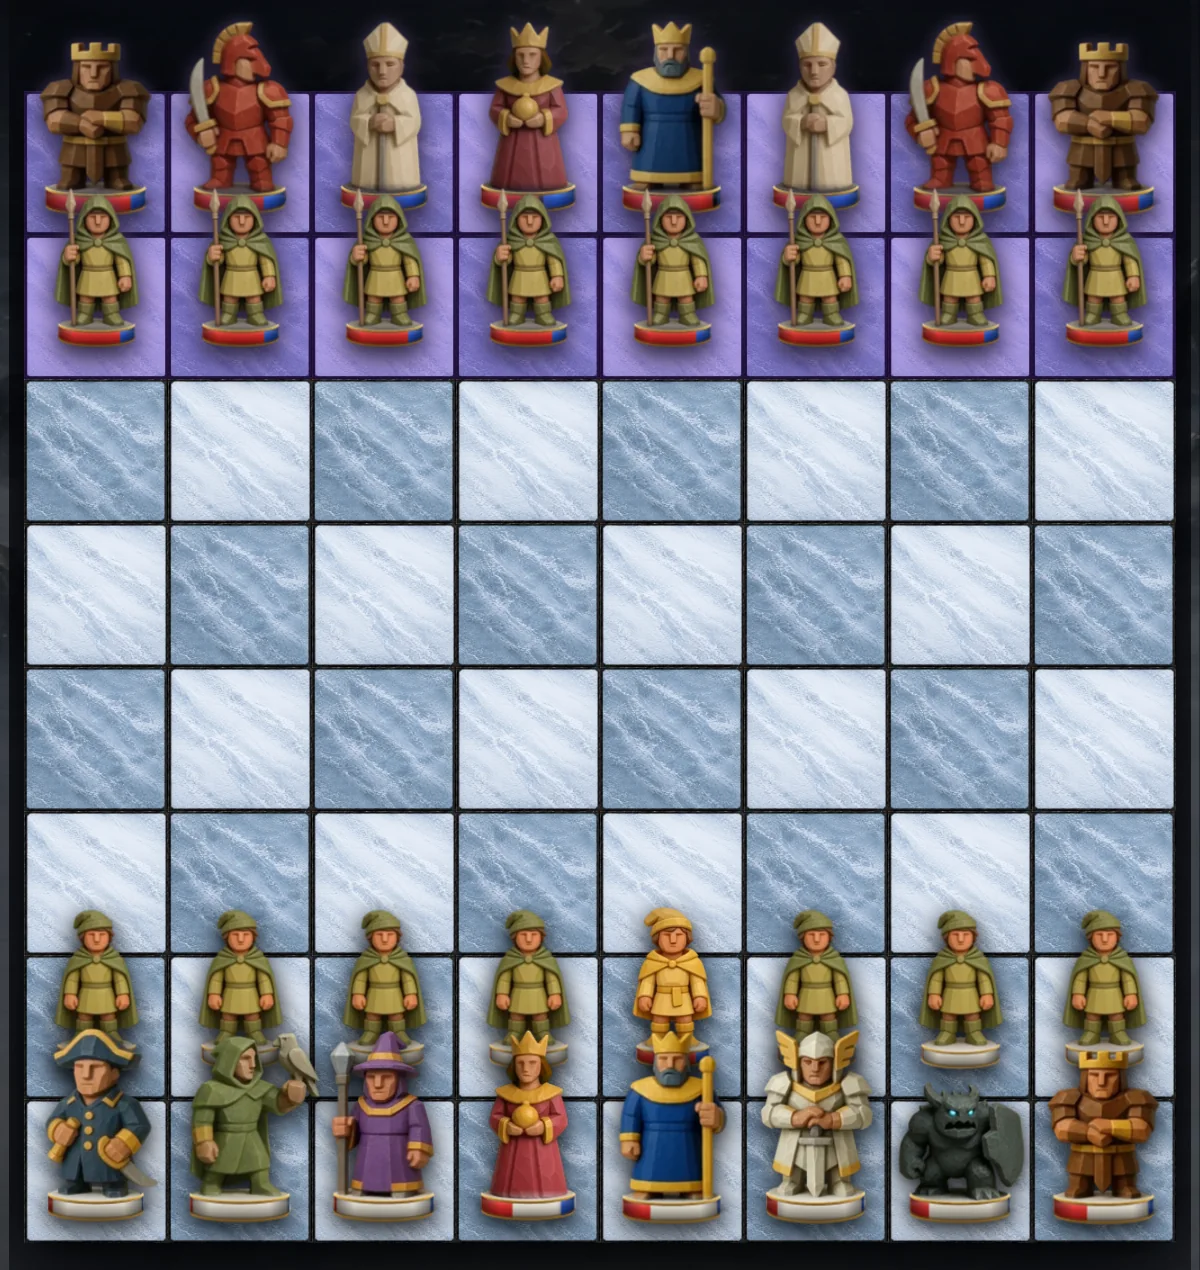
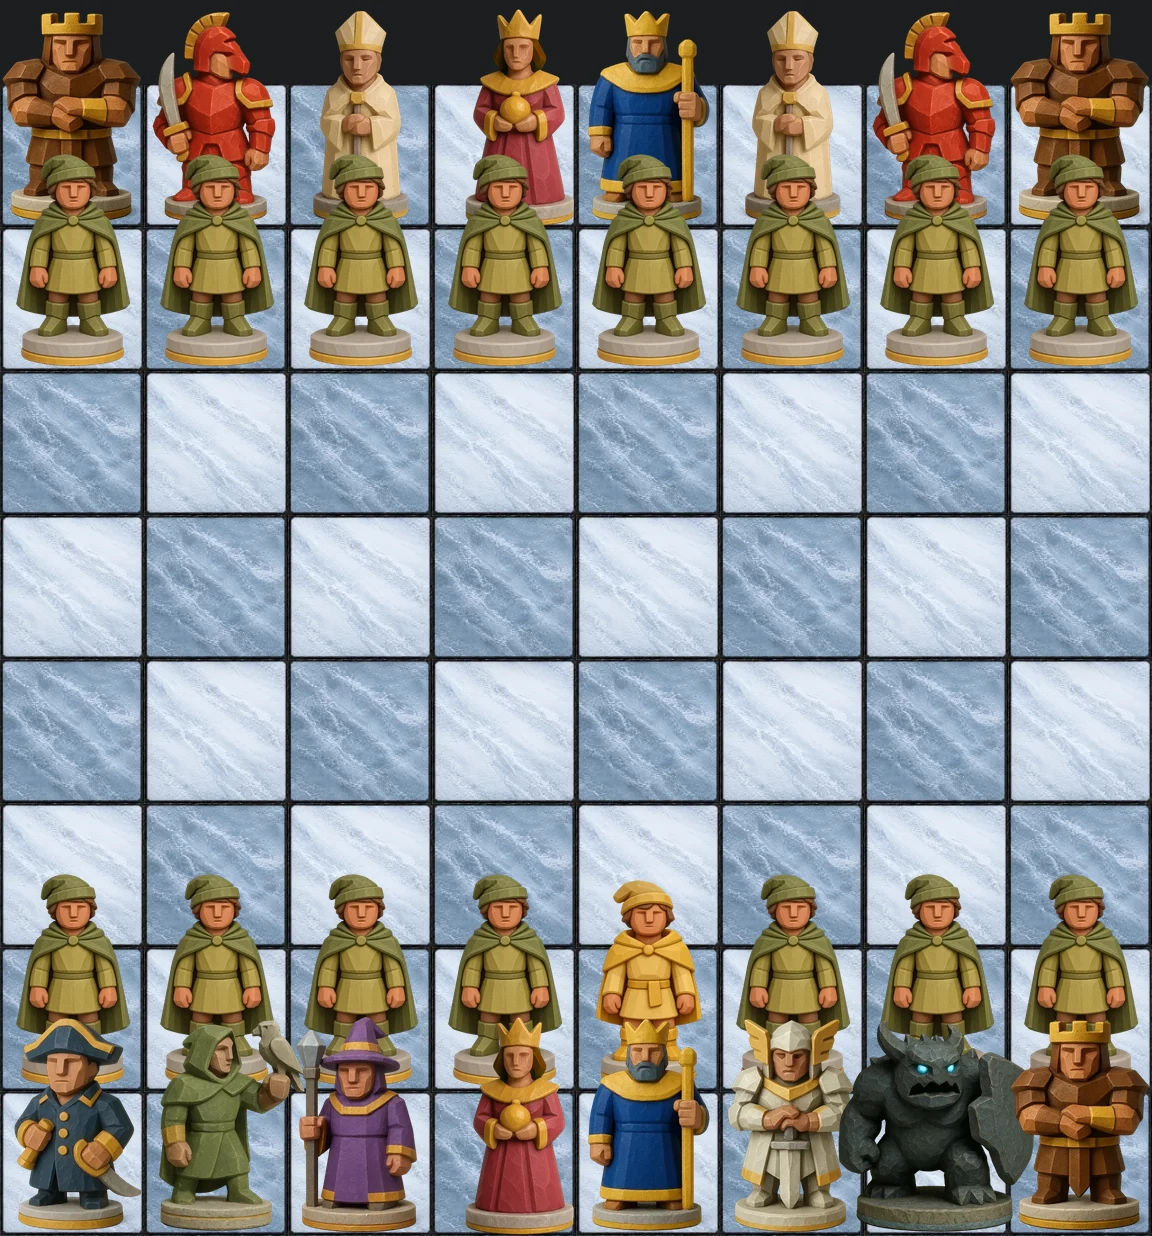
v1.87.0: die Landingpage nach dem Blick des Besitzers - Laenderband fort, Bretter ohne Lila und Glut, Zugbilder in einer Sprache, Crowd hinter der ersten Reihe
Besitzer (27.9.): "zwoelf Laender, zwoelf Stimmungen, das ist einfach
weglassen ... bei den Figuren die lilanen Hintergruende weg ... bei diesem
Schachbrett die Kontur weg, dass man nur das Schachbrett sieht ... der Sockel
immer grau oder schwarz, aber gleich ... beim Weitsprung zeichne bitte auch den
normalen Zug ein, den der Springer kann ... beim Turm hast du sie richtig
eingezeichnet ... im Hintergrund noch mehrere Figuren, Paladin, Waechter,
Erzbischof, Amazone, Kapitaen und Kanzler, wie so eine Crowd dahinter."

LAENDERBAND: Abschnitt und CSS gestrichen, die sechs Bilder nach
archiv/ausgemustert/v1.87.0/.

BRETTER - DIE URSACHE: die drei Brettbilder waren echte Aufnahmen aus dem
Spiel, und das Spiel zeigt die Gegnerreihen violett und traegt seit v1.0.83
die Sockelglut schwarz/weiss ohne Wahl (gegnerstil.js). Aus dem Spiel kommt
also kein Bild ohne Lila und ohne ungleiche Sockel. tools/landing_bilder.py
setzt die Bretter deshalb neu zusammen: leere Felder aus der alten Aufnahme
(gemessen 8 x 144 px, x ab 24, Kronland y ab 124, Wolkenjoch y ab 92),
Figuren aus painted/ mit ihrem eigenen grauen Sockel (Kasten 228 px aus dem
gemessenen Gegnerkoenig 51..264 px), beschnitten auf die Feldkante. Rahmen,
Rundung und Leuchtkontur sind weg (.brettbild). Alte Aufnahmen im Archiv.

ZUGBILDER - DIE URSACHE: nicht das Bild war unvollstaendig, die Legende war
verkehrt. Die Bilder trugen die Farben des Spiels (Blau = Gleiten, Gelb =
[…]

diff --git a/public/landing.html b/public/landing.html
@@ -141,6 +141,16 @@
       filter:brightness(var(--b,1)) drop-shadow(0 12px 26px rgba(0,0,0,.8)); }
     @media (max-width:900px){ .hofreihe img.rand { display:none; } }
     @media (max-width:560px){ .hofreihe img.rand2 { display:none; } .hofreihe { --ue:.134; } }
+    /* v1.87.0 (Besitzer: "im Hintergrund noch mehrere Figuren ... den Paladin,
+       den Waechter, den Erzbischof, die Amazone, Kapitaen und Kanzler ... wie
+       so eine Crowd dahinter stehen, so dass man die Gesichter sieht"): eine
+       ZWEITE REIHE hinter der ersten. Sie steht hoeher (bottom), kleiner (--h)
+       und dunkler (--b), also weiter hinten; ihre Koepfe schauen ueber die
+       Schultern der vorderen Reihe. Gemessen: der Koenig vorn reicht bis
+       0,80 fh ueber die Fensterkante, die hinteren Gesichter beginnen bei
+       0,86 fh - kein Gesicht steckt hinter einer Krone. */
+    .hofreihe.hinten { bottom:calc(var(--fh) * .30); z-index:1; --ue:.05; }
+    @media (max-width:560px){ .hofreihe.hinten { --ue:.11; } }
     /* v1.82.0: der Abdunkler bleibt, faellt aber flacher aus - er soll den
        Uebergang zum naechsten Abschnitt tragen, nicht die Beine schlucken. */
     .buehne::after { content:""; position:absolute; left:0; right:0; bottom:0; height:56px;
@@ -296,13 +306,11 @@
     .chip { font-size:11px; font-weight:700; letter-spacing:.03em; padding:4px 10px; border-radius:999px;
       border:1px solid rgba(201,164,92,.4); color:var(--goldhell); background:rgba(201,164,92,.08); }
     .chip.violett { border-color:rgba(167,139,250,.45); color:#cdbcf7; background:rgba(124,58,237,.12); }
-    .laender { display:grid; gap:10px; grid-template-columns:repeat(2,1fr); margin-top:6px; }
-    @media (min-width:700px){ .laender { grid-template-columns:repeat(3,1fr); } }
-    .laender figure { margin:0; }
-    .laender img { width:100%; height:auto; display:block; border-radius:12px;
-      border:1px solid rgba(167,139,250,.3); box-shadow:0 8px 22px rgba(0,0,0,.5); }
-    .laender figcaption { margin-top:6px; text-align:center; font-size:12.5px; color:rgba(226,218,246,.8); }
-    .laender figcaption i { font-style:normal; color:var(--gold); margin-left:5px; letter-spacing:.08em; }
+    /* v1.87.0 (Besitzer: "die lilanen Hintergruende weg ... die Kontur weg,
+       dass man nur das Schachbrett sieht"): das Gefechtsbrett steht ohne
+       Rahmen, ohne Leuchtkontur und ohne Rundung - nur das Brett. */
+    .brettbild { max-width:560px; margin:0 auto; }
+    .brettbild img { width:100%; height:auto; display:block; }
     .weltrahmen { border:1px solid rgba(167,139,250,.55); border-radius:16px; overflow:hidden;
       box-shadow:0 14px 44px rgba(0,0,0,.55), 0 0 16px rgba(124,58,237,.25); }
     footer { border-top:1px solid var(--line); background:var(--night); padding:34px 18px 44px;
@@ -348,6 +356,15 @@
        Reihenfolge ist die Tiefe: die Zahl in --z sagt, wer vor wem steht, --b
        dunkelt die hinteren ab. Am Rand verschwinden Figuren auf schmalen
        Geraeten (Klassen rand/rand2), damit die Reihe nie beschnitten wirkt. -->
+  <!-- v1.87.0: die Crowd dahinter - sechs Menschen des Hofstaats, keine Bestie -->
+  <div class="hofreihe hinten" aria-hidden="true">
+    <img class="rand2" src="/landing/held-chancellor.webp" alt="" style="--h:.66;--z:1;--b:.40;--y:.03" loading="eager" />
+    <img               src="/landing/held-amazon.webp"     alt="" style="--h:.70;--z:2;--b:.46;--y:.07" loading="eager" />
+    <img               src="/landing/held-paladin.webp"    alt="" style="--h:.74;--z:3;--b:.52;--y:0"   loading="eager" />
+    <img               src="/landing/held-archbishop.webp" alt="" style="--h:.72;--z:3;--b:.52;--y:.05" loading="eager" />
+    <img               src="/landing/held-guardian.webp"   alt="" style="--h:.70;--z:2;--b:.46;--y:.02" loading="eager" />
+    <img class="rand2" src="/landing/held-captain.webp"    alt="" style="--h:.66;--z:1;--b:.40;--y:.06" loading="eager" />
+  </div>
   <div class="hofreihe" aria-hidden="true">
     <img class="rand"  src="/landing/held-pawn.webp"   alt="" style="--h:.54;--z:1;--b:.38;--y:.11"  loading="eager" />
     <img class="rand2" src="/landing/held-rook.webp"   alt="" style="--h:.70;--z:2;--b:.54;--y:.082" loading="eager" />
@@ -489,14 +506,22 @@
       <!-- v1.85.0 (Besitzer G1: "Zugbilder der Faehigkeiten: Weitsprung
            verstaendlicher (Legende)"): ohne Legende waren die Farben nicht zu
            deuten - man sah bunte Kaestchen und wusste nicht, was sie heissen.
-           Die Farben sind dieselben wie im Spiel (.z.f / .z.s / .z.l). -->
+           v1.87.0 (Besitzer: "beim Weitsprung zeichne bitte auch den normalen
+           Zug ein ... beim Turm hast du sie richtig eingezeichnet"): GEMESSEN
+           war die Legende verkehrt herum zu den Bildern. Die Bilder trugen die
+           Farben des Spiels (Blau = Gleiten, Gelb = Sprung, Talentfarbe = neu);
+           das L des Springers stand damit in Gelb, das die Legende "neu"
+           nannte, und der Weitsprung in Blau, das sie "gewohnt" nannte. Jetzt
+           sprechen alle vier Bilder die Sprache des Turmbildes: Blau der
+           gewohnte Zug, Gruen was die Faehigkeit hinzugibt
+           (tools/landing_bilder.py). -->
       <ul class="zuglegende sans">
         <li><span class="z f"></span>die Figur selbst</li>
         <li><span class="z s"></span>ihr gewohnter Zug</li>
-        <li><span class="z l"></span>neu durch die Fähigkeit</li>
+        <li><span class="z g"></span>neu durch die Fähigkeit</li>
       </ul>
-      <p class="unterzeile sans" style="text-align:left">Der <b>Weitsprung</b> etwa gibt dem Springer vier
-        weitere Ziele über das L hinaus — im Bild die gelben Felder.</p>
+      <p class="unterzeile sans" style="text-align:left">Der <b>Weitsprung</b> etwa gibt dem Springer acht
+        weitere Ziele über das L hinaus — im Bild die grünen Felder, das L bleibt blau.</p>
     </div>
   </div>
 </section>
@@ -508,7 +533,10 @@
     <p class="h2u sans">Kapitän statt Turm, Späher statt Springer, eine Bestie aus dem Riss auf dem freien Platz —
       jede Partie beginnt mit deiner Aufstellung. Besiegte Monster lassen sich mit Gold und einem Opfer aus
       deinem Hofstaat anwerben, und wer ein Kapitel gewinnt, holt dessen Meister an den Platz der Dame.</p>
-    <div class="bildrahmen leuchtkontur"><img src="/landing/gefecht-gemischt.webp"
+    <!-- v1.87.0 (Besitzer): kein Rahmen, keine Leuchtkontur. Das Bild selbst
+         ist neu zusammengesetzt (tools/landing_bilder.py): ohne die violetten
+         Gegnerfelder und ohne die Sockelglut - alle Sockel gleich grau. -->
+    <div class="brettbild"><img src="/landing/gefecht-gemischt.webp" width="1152" height="1236"
       alt="Ein Gefecht in Gambit Rise: die eigene Reihe mit Kapitän, Späher, Magier, Dame, König, Paladin, dem Wächter und einem Turm" loading="lazy" /></div>
   </div>
 </section>
@@ -554,25 +582,18 @@
       alt="Die Karte eines Kapitels: ein Pfad durch den Eichwald mit Stationen wie Erstes Rot, Halle der zwei Schwüre und Bernsteinaltar" loading="lazy" /></div>
     <!-- v1.62.0 (Besitzer: "Kapitel I zeigen ... und vielleicht noch ein anderes
          von den Bergen, ein helles - dass man Varianz reinbringt") -->
-    <!-- v1.85.0 (Besitzer G7: "weiter unten weitere Hintergruende aus dem
-         Spiel verwenden"): die echten Kapitel-Hintergruende aus public/brett,
-         quer zugeschnitten. Sechs von zwoelf - genug fuer den Eindruck, ohne
-         die Reise vorwegzunehmen. -->
-    <h3 class="sans" style="text-align:center;margin:34px 0 6px;font-size:19px">Zwölf Länder, zwölf Stimmungen</h3>
-    <div class="laender">
-      <figure><img src="/landing/land-kronland.webp" alt="Das Kronland" loading="lazy" /><figcaption class="sans">Kronland <i>I</i></figcaption></figure>
-      <figure><img src="/landing/land-eichwald.webp" alt="Der Eichwald" loading="lazy" /><figcaption class="sans">Eichwald <i>III</i></figcaption></figure>
-      <figure><img src="/landing/land-grauwacht.webp" alt="Die Grauwacht" loading="lazy" /><figcaption class="sans">Grauwacht <i>V</i></figcaption></figure>
-      <figure><img src="/landing/land-wolkenjoch.webp" alt="Das Wolkenjoch" loading="lazy" /><figcaption class="sans">Wolkenjoch <i>VI</i></figcaption></figure>
-      <figure><img src="/landing/land-aschgrund.webp" alt="Der Aschgrund" loading="lazy" /><figcaption class="sans">Aschgrund <i>VIII</i></figcaption></figure>
-      <figure><img src="/landing/land-kueste.webp" alt="Die Küste" loading="lazy" /><figcaption class="sans">Die Küste <i>XI</i></figcaption></figure>
-    </div>
-
+    <!-- v1.87.0 (Besitzer: "zwoelf Laender, zwoelf Stimmungen, das ist einfach
+         weglassen"): das Laenderband aus v1.85.0 (sechs quer geschnittene
+         Kapitel-Hintergruende) ist fort; die Bilder liegen in
+         archiv/ausgemustert/v1.87.0/. -->
     <h3 class="sans" style="text-align:center;margin:34px 0 6px;font-size:19px">Jedes Land sein eigenes Brett</h3>
+    <!-- v1.87.0 (Besitzer): beide Bretter wie das Gefechtsbrett oben - ohne
+         Rahmen und Leuchtkontur, ohne violette Gegnerreihen, alle Sockel
+         gleich grau (tools/landing_bilder.py). -->
     <div class="paar">
-      <figure><div class="bildrahmen"><img src="/landing/gefecht-gemischt.webp" alt="Das Brett im Kronland, Kapitel I" loading="lazy" /></div>
+      <figure><div class="brettbild"><img src="/landing/gefecht-gemischt.webp" width="1152" height="1236" alt="Das Brett im Kronland, Kapitel I" loading="lazy" /></div>
         <figcaption class="sans" style="text-align:center"><b>Kronland</b> — Kapitel I</figcaption></figure>
-      <figure><div class="bildrahmen leuchtkontur"><img src="/landing/brett-wolkenjoch.webp" alt="Das eisblaue Brett im Wolkenjoch, Kapitel VI" loading="lazy" /></div>
+      <figure><div class="brettbild"><img src="/landing/brett-wolkenjoch.webp" width="1152" height="1236" alt="Das eisblaue Brett im Wolkenjoch, Kapitel VI" loading="lazy" /></div>
         <figcaption class="sans" style="text-align:center"><b>Wolkenjoch</b> — Kapitel VI</figcaption></figure>
     </div>
   </div>

diff --git a/tools/landing_bilder.py b/tools/landing_bilder.py
@@ -1,0 +1,164 @@
+#!/usr/bin/env python3
+"""Die Bilder der Landingpage, die v1.87.0 neu zeichnet (Besitzer, 27.9.2026).
+
+Drei Aufgaben, alle aus Material, das schon im Repo liegt - kein Bild-API:
+
+  zugbilder   Die vier Zugbilder im Abschnitt "Auch der Springer lernt dazu".
+              Besitzer: "beim Weitsprung zeichne bitte auch den normalen Zug
+              ein, den der Springer kann, weil so erkennt man gar nicht, was
+              der Unterschied ist ... beim Turm hast du sie ja eigentlich
+              richtig eingezeichnet."
+              GEMESSEN, was schief war: die Bilder trugen die Farben des
+              SPIELS (Blau = Gleiten, Gelb = Sprung, Talentfarbe = neu), die
+              Legende darunter sagte aber "Blau = gewohnter Zug, Gelb = neu".
+              Beim Turm stimmte das zufaellig (er gleitet), beim Springer
+              war es verkehrt herum: sein L stand in Gelb ("neu"), der
+              Weitsprung in Blau ("gewohnt"). Jetzt gilt in allen vier
+              Bildern dieselbe Sprache wie beim Turm: BLAU der gewohnte Zug,
+              GRUEN was die Faehigkeit hinzugibt. Die Kacheln werden aus dem
+              alten Turmbild abgetastet, damit Stil und Geometrie pixelgenau
+              bleiben (484 px, 7x7, Zellen 60 px ab x=22 im Raster 64).
+
+  gefecht     Das Brett unter "Stell dein eigenes Heer auf". Besitzer: "die
+              lilanen Hintergruende weg ... die Kontur weg, dass man nur das
+              Schachbrett sieht ... der Sockel immer grau oder schwarz, aber
+              gleich." Die alte Aufnahme aus dem Spiel trug die violetten
+              Felder der Gegnerreihen, die Sockelglut (Gegner schwarz, eigene
+              weiss - gegnerstil.js, seit v1.0.83 ohne Wahl) und einen
+              Holzrand. Aus dem Spiel selbst kommt das nicht ohne Sockelglut;
+              darum wird das Brett neu zusammengesetzt: die leeren Felder
+              der Zeilen 3-5 der alten Aufnahme (gemessen: 8 Felder je 144 px,
+              x ab 24, y ab 124) fuellen alle acht Zeilen, die Figuren kommen
+              aus painted/ mit ihrem eigenen grauen Sockel. Massstab aus der
+              Aufnahme: Gegnerkoenig 51..264 px hoch = 213 px fuer 541 px
+              Figur -> Kasten 228 px, Unterkante 2 px unter der Feldkante.
+
+  crowd       Sechs Figuren fuer die zweite Reihe des ersten Schirms - genau
+              wie die held-*.webp seit v1.78.0: painted/ auf 460 px, seitlich
+              auf die Figur beschnitten.
+
+Aufruf: python3 tools/landing_bilder.py [zugbilder|gefecht|crowd|alles]
+"""
+import sys
+from pathlib import Path
+from PIL import Image
+
+WURZEL = Path(__file__).resolve().parent.parent
+LANDING = WURZEL / "public" / "landing"
+PAINTED = WURZEL / "src" / "app" / "ui" / "assets" / "painted"
+
+
+# ── ZUGBILDER ────────────────────────────────────────────────────────────────
+ZELLE, RASTER, START = 60, 64, 22          # gemessen im alten Turmbild
+
+def zelle_xy(c, r):
+    return START + RASTER * c, START + RASTER * r
+
+def kachel(vorlage, c, r):
+    x, y = zelle_xy(c, r)
+    return vorlage.crop((x, y, x + ZELLE, y + ZELLE))
+
+def zugbild(vorlage, gewohnt, neu):
+    """gewohnt/neu: Mengen von (df, dr) um die Figur; df nach rechts, dr nach oben."""
+    bild = vorlage.copy()
+    hell, dunkel = kachel(vorlage, 0, 0), kachel(vorlage, 1, 0)
+    blau, gruen, mitte = kachel(vorlage, 3, 0), kachel(vorlage, 2, 2), kachel(vorlage, 3, 3)
+    # Erst das Innere neu fuellen: in den Fugen neben den blauen Turmzellen
+    # lag ein Hauch Blau (Kantenglaettung), der als Saum stehen blieb.
+    fuge = vorlage.getpixel((START + ZELLE + 2, START + 30))
+    bild.paste(fuge, (START - 4, START - 4, START + 7 * RASTER, START + 7 * RASTER))
+    for r in range(7):
+        for c in range(7):
+            df, dr = c - 3, 3 - r
+            if (df, dr) == (0, 0): k = mitte
+            elif (df, dr) in neu: k = gruen
+            elif (df, dr) in gewohnt: k = blau
+            else: k = hell if (c + r) % 2 == 0 else dunkel
+            bild.paste(k, zelle_xy(c, r))
+    return bild
+
+ZUG_VORLAGE = WURZEL / "archiv" / "ausgemustert" / "v1.87.0" / "zug-rook_diag_step-vorlage.webp"
+
+def zugbilder():
+    # Vorlage ist das ARCHIVIERTE Turmbild aus v1.62.0, nie das eigene Ergebnis
+    vorlage = Image.open(ZUG_VORLAGE).convert("RGB")
+    # Muster aus src/core/domain/constants.js - dieselben Tabellen wie der Kern
+    springer = {(1, 2), (2, 1), (-1, 2), (-2, 1), (1, -2), (2, -1), (-1, -2), (-2, -1)}
+    weit = {(1, 3), (3, 1), (-1, 3), (-3, 1), (1, -3), (3, -1), (-1, -3), (-3, -1)}
+    vorreiter = {(2, 2), (2, -2), (-2, 2), (-2, -2)}
+    turm = {(k * d, 0) for k in (1, 2, 3) for d in (1, -1)} | {(0, k * d) for k in (1, 2, 3) for d in (1, -1)}
+    diag = {(1, 1), (1, -1), (-1, 1), (-1, -1)}
+    koenig = {(a, b) for a in (-1, 0, 1) for b in (-1, 0, 1)} - {(0, 0)}
+    flucht = {(2, 0), (-2, 0), (0, 2), (0, -2)}
+    for name, g, n in [("knight_longleap", springer, weit), ("knight_outrider", springer, vorreiter),
+                       ("rook_diag_step", turm, diag), ("king_dash", koenig, flucht)]:
+        zugbild(vorlage, g, n).save(LANDING / f"zug-{name}.webp", quality=92)
+        print("zugbild", name)
+
+
+# ── GEFECHT ──────────────────────────────────────────────────────────────────
+FELD = 144
+BRETT_X = 24                               # linke Feldkante in den alten Aufnahmen
+KASTEN = 228                               # Figurenkasten (576 px painted -> 228 px)
+STREIFEN = 84                              # dunkler Streifen ueber dem Brett fuer die Koepfe
+
+def figur(name):
+    im = Image.open(PAINTED / f"painted-{name}.webp").convert("RGBA")
+    return im.resize((KASTEN, KASTEN), Image.LANCZOS)
+
+ARCHIV = WURZEL / "archiv" / "ausgemustert" / "v1.87.0"
+# Beide Aufnahmen aus v1.53.0/v1.62.0 haben dieselbe Feldbreite und dieselbe
+# linke Kante; nur die Oberkante liegt anders (gemessen an den Helligkeits-
+# spruengen der Zeilen: Kronland 124, Wolkenjoch 92).
+BRETTER = {
+    "gefecht-gemischt": (ARCHIV / "gefecht-gemischt-aufnahme.webp", 124),
+    "brett-wolkenjoch": (ARCHIV / "brett-wolkenjoch-aufnahme.webp", 92),
+}
+
+def gefecht(name="gefecht-gemischt"):
+    # Quelle ist die AUSGEMUSTERTE Aufnahme, nie das eigene Ergebnis - sonst
+    # stimmen beim zweiten Lauf die gemessenen Feldkanten nicht mehr.
+    quelle, oben = BRETTER[name]
+    alt = Image.open(quelle).convert("RGB")
+    W = 8 * FELD
+    brett = Image.new("RGB", (W, STREIFEN + W), alt.getpixel((600, 20)))
+    # Leere Felder: gerade Zeilen aus Zeile 2 bzw. 4, ungerade aus Zeile 3 - dort steht keine Figur
+    for r in range(8):
+        q = (2 if r % 4 == 0 else 4) if r % 2 == 0 else 3
+        streifen = alt.crop((BRETT_X, oben + q * FELD, BRETT_X + W, oben + (q + 1) * FELD))
+        brett.paste(streifen, (0, STREIFEN + r * FELD))
+    aufstellung = [
+        ["rook", "knight", "bishop", "queen", "king", "bishop", "knight", "rook"],
+        ["pawn"] * 8,
+        None, None, None, None,
+        ["pawn", "pawn", "pawn", "pawn", "gambit", "pawn", "pawn", "pawn"],
+        ["captain", "hawk", "mage", "queen", "king", "paladin", "boss-b01", "rook"],
+    ]
+    cache = {}
+    for r, reihe in enumerate(aufstellung):
+        if not reihe: continue
+        for c, fig in enumerate(reihe):
+            if fig not in cache: cache[fig] = figur(fig)
+            f = cache[fig]
+            x = c * FELD + (FELD - KASTEN) // 2
+            y = STREIFEN + (r + 1) * FELD + 2 - KASTEN
+            brett.paste(f, (x, y), f)
+    brett.save(LANDING / f"{name}.webp", quality=88)
+    print("gefecht", name, brett.size)
+
+
+# ── CROWD ────────────────────────────────────────────────────────────────────
+def crowd():
+    for name in ["paladin", "guardian", "archbishop", "amazon", "captain", "chancellor"]:
+        im = Image.open(PAINTED / f"painted-{name}.webp").convert("RGBA").resize((460, 460), Image.LANCZOS)
+        l, _, r, _ = im.split()[3].getbbox()
+        im.crop((l, 0, r, 460)).save(LANDING / f"held-{name}.webp", quality=90)
+        print("crowd", name, r - l)
+
+
+if __name__ == "__main__":
+    was = sys.argv[1] if len(sys.argv) > 1 else "alles"
+    if was in ("zugbilder", "alles"): zugbilder()
+    if was in ("gefecht", "alles"):
+        for name in BRETTER: gefecht(name)
+    if was in ("crowd", "alles"): crowd()

diff --git a/CHANGELOG.md b/CHANGELOG.md
@@ -1,5 +1,48 @@
 # Changelog - Gambit Rise
 
+## 1.87.0 - die Landingpage nach dem Blick des Besitzers
+
+- Besitzer (27.9.): "zwoelf Laender, zwoelf Stimmungen, das ist einfach
+  weglassen ... bei den Figuren die lilanen Hintergruende weg ... bei diesem
+  Schachbrett die Kontur weg, dass man nur das Schachbrett sieht ... der
+  Sockel immer grau oder schwarz, aber nicht die einen schwarz und das andere
+  grau ... beim Weitsprung zeichne bitte auch den normalen Zug ein ... beim
+  Turm hast du sie richtig eingezeichnet ... im Hintergrund noch mehrere
+  Figuren: Paladin, Waechter, Erzbischof, Amazone, Kapitaen und Kanzler, wie
+  so eine Crowd dahinter, so dass man die Gesichter sieht."
+- LAENDERBAND FORT: der Abschnitt "Zwoelf Laender, zwoelf Stimmungen" aus
+  v1.85.0 ist gestrichen; die sechs Bilder liegen in
+  archiv/ausgemustert/v1.87.0/.
+- DIE BRETTER (das Gefechtsbrett und die zwei unter "Jedes Land sein eigenes
+  Brett"). URSACHE der lila Felder und der ungleichen Sockel: es waren echte
+  Aufnahmen aus dem Spiel, und das Spiel zeigt die Gegnerreihen violett und
+  traegt seit v1.0.83 die Sockelglut schwarz/weiss ohne Wahl - aus dem Spiel
+  kommt kein Bild ohne beides. Darum setzt tools/landing_bilder.py die
+  Bretter neu zusammen: die leeren Felder aus der alten Aufnahme (gemessen:
+  8 x 144 px, Kronland ab y=124, Wolkenjoch ab y=92), die Figuren aus painted/
+  mit ihrem eigenen grauen Sockel (Kasten 228 px aus dem gemessenen
+  Gegnerkoenig), beschnitten auf die Feldkante. Rahmen, Rundung und
+  Leuchtkontur um die Bretter sind weg. Die alten Aufnahmen liegen im Archiv.
+- DIE ZUGBILDER. GEMESSEN war nicht das Bild unvollstaendig, sondern die
+  Legende verkehrt: die Bilder trugen die Farben des Spiels (Blau = Gleiten,
+  Gelb = Sprung, Talentfarbe = neu), die Legende darunter sagte "Blau =
+  gewohnt, Gelb = neu". Beim Turm stimmte das zufaellig (er gleitet), beim
+  Springer stand sein L als "neu" und der Weitsprung als "gewohnt" - genau der
+  Eindruck, den der Besitzer beschreibt. Alle vier Bilder sprechen jetzt die
+  Sprache des Turmbilds: Blau der gewohnte Zug, Gruen was die Faehigkeit
+  hinzugibt; die Kacheln sind aus dem alten Turmbild abgetastet, damit Stil
+  und Geometrie gleich bleiben. Legende und Satz angepasst - und "vier weitere
+  Ziele" war falsch, LONG_LEAPS hat acht Eintraege.
+- DIE CROWD: eine zweite Figurenreihe hinter der ersten (hoeher, kleiner,
+  dunkler - Kanzler, Amazone, Paladin, Erzbischof, Schildtraeger/"Waechter",
+  Kapitaen), gebaut wie die held-*.webp aus v1.78.0. Gemessen bei 390, 820 und
+  1440 px: der Koenig vorn reicht bis 0,80 fh ueber die Fensterkante, die
+  hinteren Gesichter beginnen bei 0,86 fh - keines steckt hinter einer Krone.
+  Auf dem Handy stehen vier der sechs.
+- NICHT angefasst, weil nicht bestellt (steht im Audit): die Weltkarte im
+  Abschnitt "Die Welt" fuellt auf breiten Schirmen nur die linke Haelfte ihres
+  Rahmens.
+
 ## 1.86.0 - die Proben sehen jetzt, was ausgeliefert wird
 
 - Besitzer: "arbeite alle offenen Punkte in dem Projekt ausserhalb von dem
